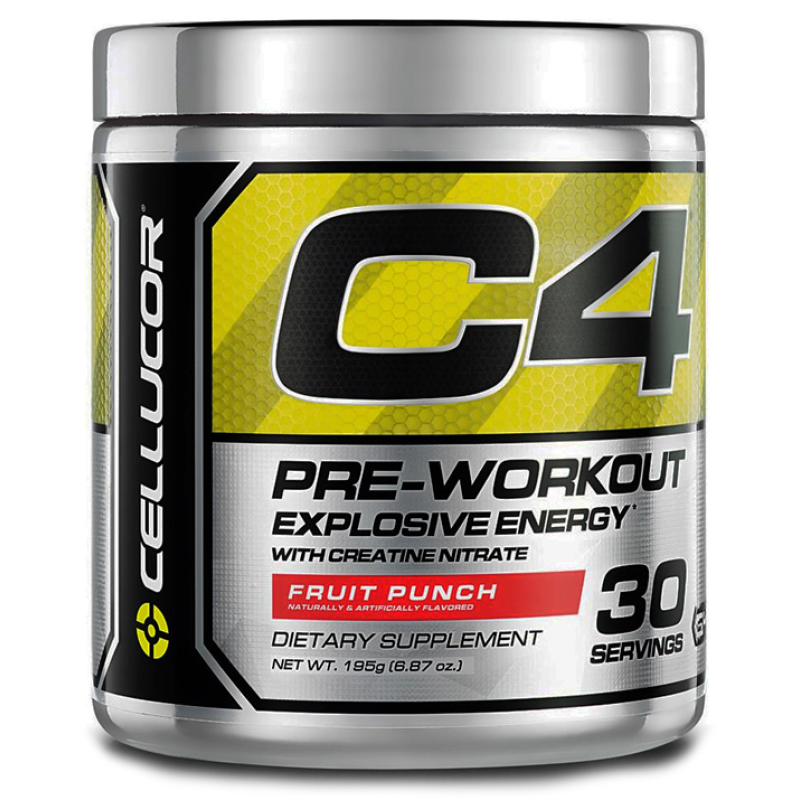
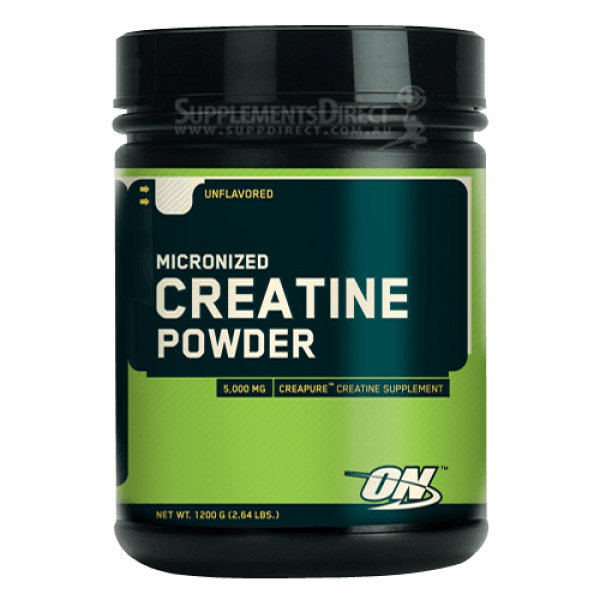
updated the page of product ordering

diff --git a/Shop/Creatine/index.css b/Shop/Creatine/index.css
@@ -5,7 +5,7 @@ a {
 
 .diet-child {
   position: absolute;
-  top: 250px;
+  top: 150px;
   left: 53px;
   border-radius: 30px;
   background-color: var(--color-gainsboro);
@@ -22,6 +22,17 @@ a {
   width: 1167px;
   height: 849px;
   
+}
+
+
+.product_image
+{ 
+  max-width: 400px;
+  max-height: 400px;
+  position: absolute;
+  top: 40%;
+  left: 60%;
+  z-index: 999;
 }
 .diet-inner,
 .frame-icon {
@@ -124,11 +135,8 @@ a {
   color: var(--sexy-rouge);
 }
 .creatine {
-  position: absolute;
-  top: 169px;
-  left: 448px;
   font-size: 60px;
-  color: #2b2b2e;
+  color: black;
 }
 .product-description {
   margin: 0;

diff --git a/Shop/Creatine/index.php b/Shop/Creatine/index.php
@@ -1,16 +1,21 @@
 <?php
 require_once "../../db.php";
+session_start();
+$product_id = $_GET['id'];
+$user_id = $_SESSION['user_id'];
+$product = $conn->query("SELECT * FROM product WHERE product_id = $product_id")->fetch_assoc();
 // Check if the form is submitted
 if ($_SERVER['REQUEST_METHOD'] === 'POST') {
   // Retrieve form data
   $name = $_POST['name'];
   $address = $_POST['address'];
   $phone = $_POST['phone'];
+  $quantity = $_POST['quantity'];
 
   // Insert data into database
   $date = date("Y-m-d");
   $datey = date("Y-m-d", strtotime("+15 days"));
-  $sql = "INSERT INTO `orders` (`product_id`, `user_id`, `date_order`, `date_delivery`, `user_address`, `quantity`, `phone_number`, `name`) VALUES ('1', '1', '$date', '$datey', '$address', '1', '$phone', '$name')";
+  $sql = "INSERT INTO `orders` (`product_id`, `user_id`, `date_order`, `date_delivery`, `user_address`, `quantity`, `phone_number`, `name`) VALUES ($product_id, $user_id , '$date', '$datey', '$address', $quantity, '$phone', '$name')";
 
   // Execute the query
   if ($conn->query($sql) === TRUE) {
@@ -21,8 +26,6 @@ if ($_SERVER['REQUEST_METHOD'] === 'POST') {
   } else {
     echo "Error: " . $sql . "<br>" . $conn->error;
   }
-  // Close the connection
-  $conn->close();
 }
 ?>
 
@@ -34,9 +37,9 @@ if ($_SERVER['REQUEST_METHOD'] === 'POST') {
   <meta name="viewport" content="initial-scale=1, width=device-width" />
   <link rel="stylesheet" href="./global.css" />
   <link rel="stylesheet" href="./index.css" />
-  <link rel="stylesheet" href="https://fonts.googleapis.com/css2?family=Nasalization:wght@400&display=swap" />
+  <!-- <link rel="stylesheet" href="https://fonts.googleapis.com/css2?family=Nasalization:wght@400&display=swap" />
   <link rel="stylesheet" href="https://fonts.googleapis.com/css2?family=Outfit:wght@500;600&display=swap" />
-  <link rel="stylesheet" href="https://fonts.googleapis.com/css2?family=Open Sans:wght@600;700&display=swap" />
+  <link rel="stylesheet" href="https://fonts.googleapis.com/css2?family=Open Sans:wght@600;700&display=swap" /> -->
 </head>
 
 <body>
@@ -61,29 +64,21 @@ if ($_SERVER['REQUEST_METHOD'] === 'POST') {
       <div class="diet1"><a href="../../diet/diet.php">Diet</a></div>
       <div class="shop"><a href="../../Shop/supplement.php">Shop</a></div>
     </div>
-    <div class="creatine" style="color: #ffffff !important; ">Premium Creatine</div>
+
+
     <div class="product-description-creatine-container">
+      <div class="product-description" style="color:#1E1E1E; font-size:60px;"> <?php echo $product['product_name'] ?> </div>
+      <p class="product-description">&nbsp;</p>
       <p class="product-description">Product Description:</p>
       <p class="product-description">&nbsp;</p>
-      <p class="product-description">CREATINE POWDER (317GR)</p>
-      <ul class="intensely-stimulates-muscle-gr">
-        <li class="without-aroma">
-          <span>Intensely Stimulates Muscle Growth and Strength</span>
-        </li>
-        <li class="without-aroma">
-          <span>Without aroma</span>
-        </li>
-        <li class="without-aroma">
-          <span>99.9% pure creatine</span>
-        </li>
-      </ul>
+      <p class="product-description"> <?php echo $product['product_description'] ?> </p>
     </div>
 
     <img class="pngwing-icon" alt="" src="./public/pngwing@2x.png" />
 
     <img class="pngwing-icon1" alt="" src="./public/pngwing1@2x.png" />
 
-    <img class="pngwing-icon2" alt="" src="./public/pngwing2@2x.png" />
+    <img class="product_image" alt="" src="../<?php echo $product['png_link']; ?>" />
 
     <div class="diet-child1"></div>
 
@@ -92,6 +87,10 @@ if ($_SERVER['REQUEST_METHOD'] === 'POST') {
     <div class="client-information-address-container">
       <p class="product-description">Client information:</p>
       <form method="post" action="">
+        <div class="form-group">
+          <label for="name" class="control-label">Quantity:</label>
+          <input type="number" min=0 name="quantity" id="name" class="form-control" value="1" required>
+        </div>
         <div class="form-group">
           <label for="name" class="control-label">Name:</label>
           <input type="text" name="name" id="name" class="form-control" required>
@@ -114,7 +113,7 @@ if ($_SERVER['REQUEST_METHOD'] === 'POST') {
 <style>
   .diet-child {
     position: absolute;
-    top: 250px;
+    top: 150px;
     left: 53px;
     border-radius: 30px;
     background-color: #3E3E3E;
@@ -342,12 +341,12 @@ if ($_SERVER['REQUEST_METHOD'] === 'POST') {
     position: absolute;
     top: 1240px;
     left: 165px;
-    font-size: var(--font-size-15xl);
+    font-size: 18px;
     color: var(--color-black);
     font-weight: bold;
     display: inline-block;
     width: 1037px;
-    height: 226px;
+    height: 300px;
   }
 
   .pngwing-icon2 {

diff --git a/Shop/Dumbells/index.php b/Shop/Dumbells/index.php
@@ -1,7 +1,7 @@
 <?php
 session_start();
 $user_id = $_SESSION["user_id"] ?? 1;
-require_once "../db.php";
+require_once "../../db.php";
 ?>
 <!DOCTYPE html>
 <html>
